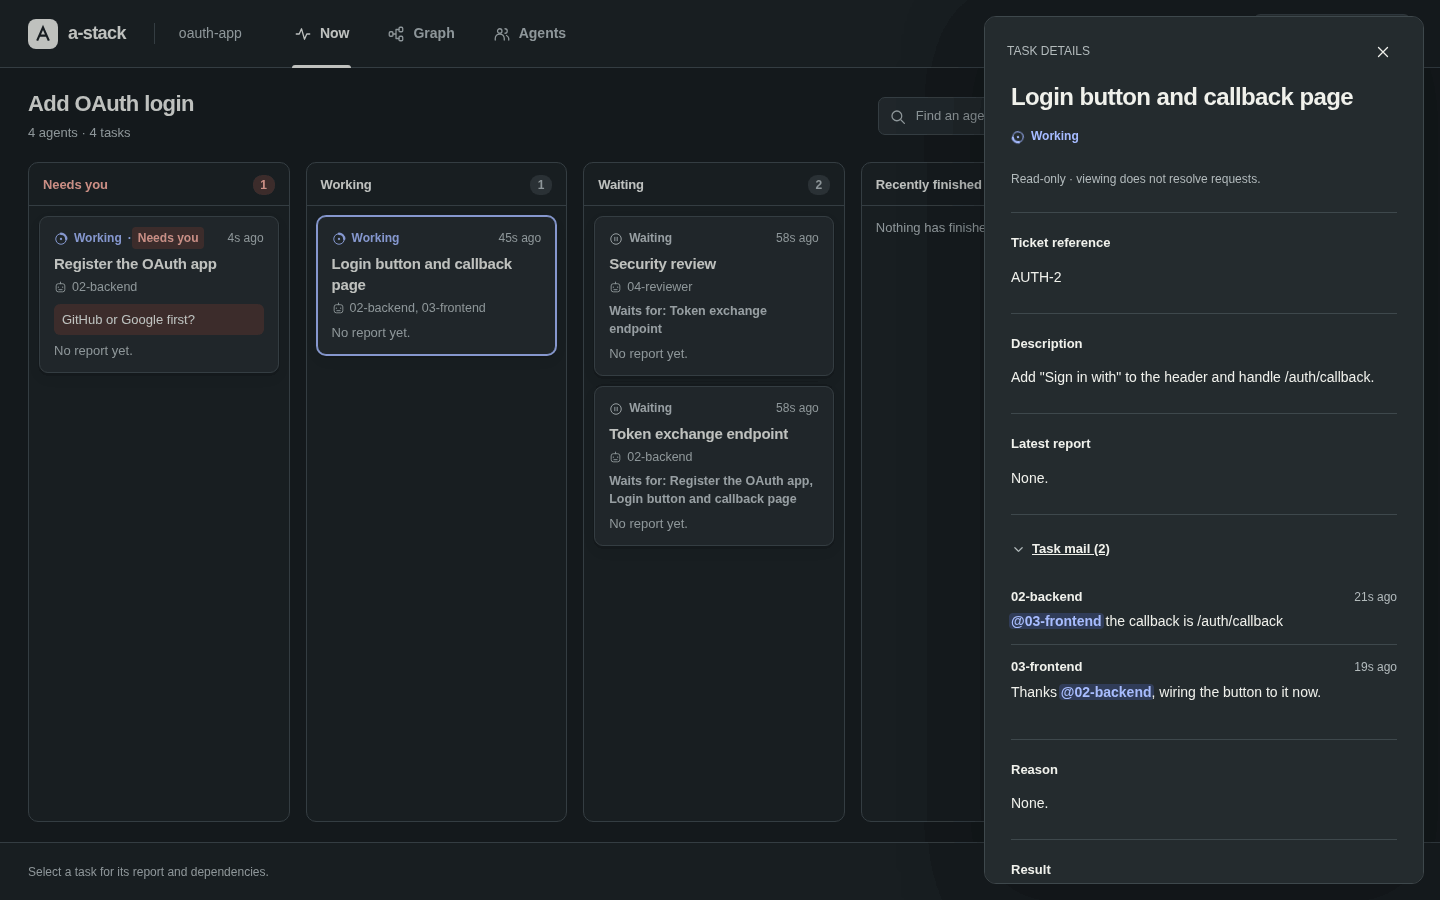
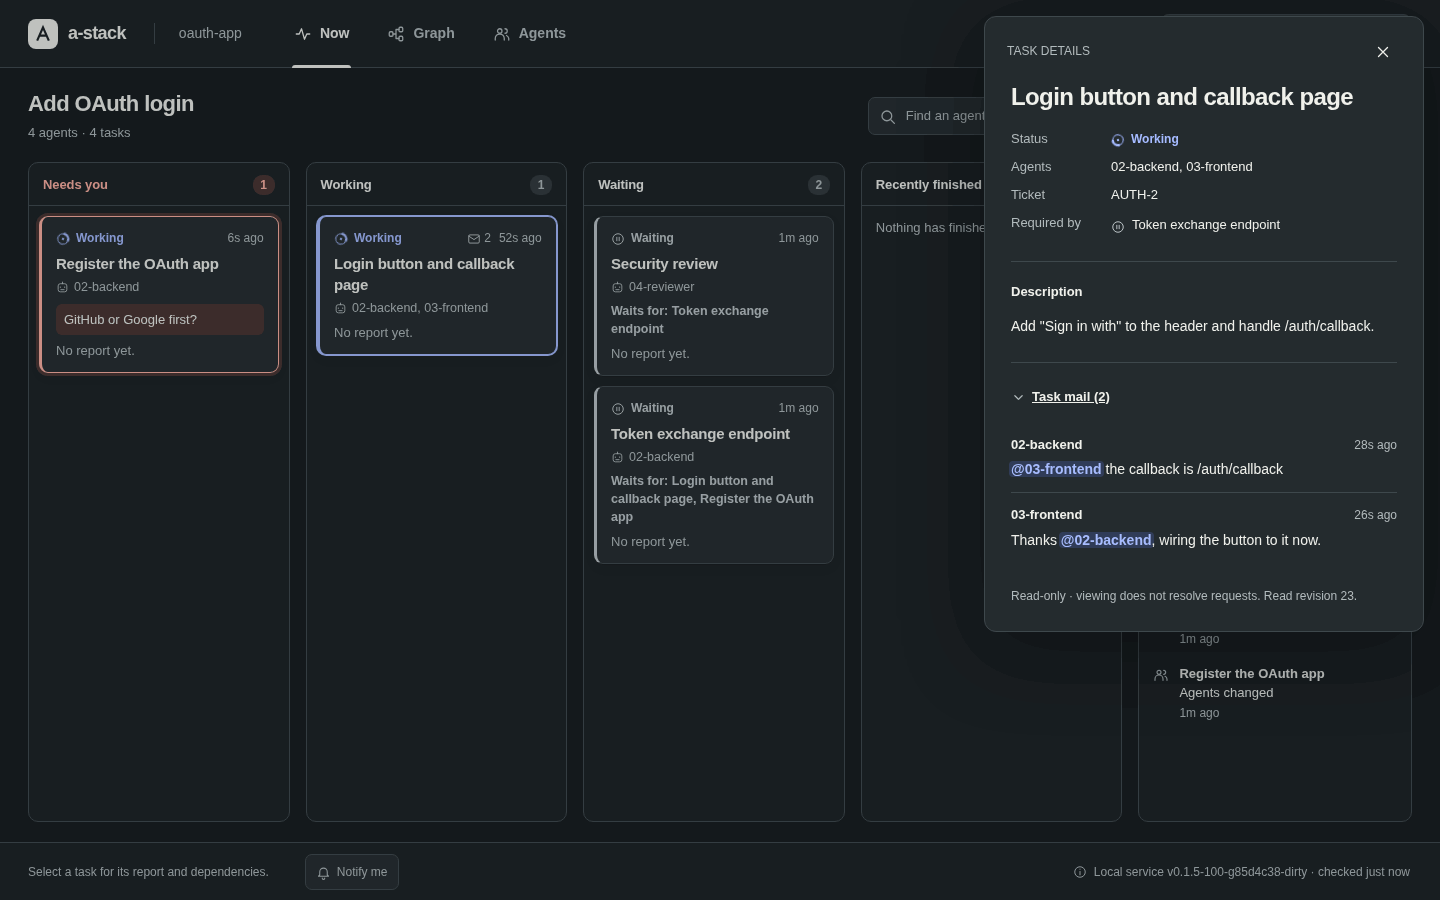
Refresh demos and screenshots for the current browser view

diff --git a/scripts/demo-overlay.js b/scripts/demo-overlay.js
@@ -138,12 +138,14 @@
         if (side === 'below' || side === 'above') {
           bx = Math.min(Math.max(r.left + r.width / 2 - b.width / 2 + 60, 12), w - b.width - 12);
           by = side === 'below' ? r.bottom + gap : r.top - gap - b.height;
+          by = Math.min(Math.max(by, 12), h - b.height - 12);
           ax = bx + Math.min(40, b.width / 4);
           ay = side === 'below' ? by : by + b.height;
           tx = Math.min(Math.max(ax + 30, r.left + 20), r.right - 20);
           ty = side === 'below' ? r.bottom + pad + 8 : r.top - pad - 8;
         } else {
           bx = side === 'right' ? r.right + gap : r.left - gap - b.width;
+          bx = Math.min(Math.max(bx, 12), w - b.width - 12);
           by = Math.min(Math.max(r.top + r.height / 2 - b.height / 2 + 40, 12), h - b.height - 12);
           ax = side === 'right' ? bx : bx + b.width;
           ay = by + b.height / 2;

diff --git a/README.md b/README.md
@@ -15,7 +15,7 @@ Reports, Task mail and answered questions stay when an Agent compacts, crashes o
 
 Works with Claude Code, Codex and Pi (with hooks), [Herdr](https://herdr.dev) (optional, not on Windows) and any agent with a shell, such as OpenCode, Copilot CLI, Cursor CLI or Gemini CLI. Runs on Linux, macOS and Windows.
 
-![Demo in seven captioned steps, with a terminal above the browser view and an arrow on each change. 1, a-stack new creates a Session for an OAuth login and opens the Now tab. 2, the Orchestrator adds four Tasks, which wait in the Waiting column. 3, the Agents 02-backend and 03-frontend start work, and their Tasks move to Working. 4, 02-backend sends Task mail to @03-frontend, 03-frontend replies, and the Task details show both messages with the mention highlighted. 5, 02-backend asks "GitHub or Google first?", the Task moves to Needs you and the button says 1 needs you. 6, after the answer the Task is Working again. 7, a-stack -r picks another Session, which also has a question for you.](docs/images/demo.gif)
+![Demo in eight captioned steps, with a terminal above the browser view and an arrow on each change. 1, a-stack new creates a Session for an OAuth login and opens the Now tab. 2, the Orchestrator adds four Tasks, which wait in the Waiting column. 3, the Agents 02-backend and 03-frontend start work, and their Tasks move to Working. 4, 02-backend sends Task mail to @03-frontend, 03-frontend replies, and the Task details show both messages with the mention highlighted. 5, 02-backend asks "GitHub or Google first?", the Task moves to Needs you and the button says Needs you (1). 6, after the answer the Task is Working again. 7, a real Stop hook asks the Agent to report its work, then a mail nudge prompts it to read new Task mail. 8, a-stack -r picks another Session, which also has a question for you.](docs/images/demo.gif)
 
 ## How it works
 
@@ -45,16 +45,16 @@ The view has three tabs:
 
 <picture>
   <source media="(prefers-color-scheme: dark)" srcset="docs/images/graph-dark.png">
-  <img src="docs/images/graph-light.png" alt="The Graph tab of the browser view: four Tasks for an OAuth login. Curved lines lead from the two Working Tasks to a Token exchange Task and from there to a Security review. One Working Task has a Needs you question, and the button at the top right says 1 needs you.">
+  <img src="docs/images/graph-light.png" alt="The Graph tab of the browser view: four Tasks for an OAuth login. Curved lines lead from the two Working Tasks to a Token exchange Task and from there to a Security review. One Working Task has a Needs you question, and the button at the top right says Needs you (1).">
 </picture>
 
-![The Agents tab of the browser view: 01-orchestrator with no Tasks, 02-backend with three Tasks, one of them with a Needs you question and one shared with 03-frontend, then 03-frontend and 04-reviewer with one Task each.](docs/images/agents.png)
+![The Agents tab shows a card for each Agent, most urgent first. 02-backend has a Needs you question, six Waiting Tasks with two folded away, and finished Tasks behind a separate fold. A summary and task-count chips show the team’s workload.](docs/images/agents.png)
 
 Select a Task to see its report, its dependencies and its Task mail. The view reads the mail but cannot send it or change anything.
 
 <picture>
   <source media="(prefers-color-scheme: dark)" srcset="docs/images/mail-dark.png">
-  <img src="docs/images/mail-light.png" alt="The details of the Task Login button and callback page, open beside the Now tab. Task mail (2) is open: 02-backend wrote @03-frontend the callback is /auth/callback, and 03-frontend answered Thanks @02-backend, wiring the button to it now. Both mentions are highlighted.">
+  <img src="docs/images/mail-light.png" alt="The details of the Task Login button and callback page, open beside the Now tab. The details begin with Status, Agents, Ticket and dependencies. Task mail (2) is open at the end: 02-backend wrote @03-frontend the callback is /auth/callback, and 03-frontend answered Thanks @02-backend, wiring the button to it now. Both mentions are highlighted.">
 </picture>
 
 Short clips in the [browser view guide](docs/browser.md#what-the-view-shows) show the graph, the archive and the Agents tab.

diff --git a/docs/browser.md b/docs/browser.md
@@ -123,7 +123,9 @@ A poll moves cards between columns in place. The selection, the focused card and
 - A minimap at the bottom right of the graph, 200×130 pixels (140×91 on a phone), shows every card as a block in its status color, with a ring around Needs you, and a box around the part you see. Click or drag on it to move the view there. It is hidden while the whole graph fits the panel. The Minimap button in the footer of the Graph tab, or `m` in the graph, turns it off or on. The button shows which, also while the graph fits, and the view remembers it in local storage. The minimap is for the pointer only: screen readers skip it, and it never takes the focus.
 - The layout runs again when Tasks or dependencies change, when the Archived toggle changes, or when a card changes size: a new title, a Task that becomes finished or cancelled or opens again, other assigned Agents, Needs you, file references, cancelled prerequisites or hidden archived prerequisites. It uses the panel size at that moment. Resizing the window alone does not move cards, and neither does a poll without changes, a new report or a change between Waiting and Working.
 
-![A short clip of the Graph tab. Curved lines lead from two Working Tasks to a Token exchange Task and on to a Security review. A click on one Task lights up its lines and fades the Tasks it does not connect to.](images/demo-graph.gif)
+![A short clip of the Graph tab. Curved lines connect prerequisites, and selecting a Task highlights its lines. A larger graph shows dragging the minimap, title blocks below 50% zoom, and colored blocks with a Needs you ring below 30%.](images/demo-graph.gif)
+
+![A larger graph at 40% zoom. Cards become blocks with titles and status colors; the minimap shows the full graph and the visible region.](images/graph-overview.png)
 
 ![A short clip of finished work in the Graph tab. A finished Task shrinks to one line. When the Task after it finishes too, the finished Tasks fold into Archived (2), and the toggle shows them again, dimmed.](images/demo-archive.gif)
 
@@ -139,7 +141,7 @@ The Agents tab shows one card per Agent, in a grid of columns at least 400px wid
 - A poll updates the cards and rows in place, so the focus and the scroll position stay.
 - A Session with no Agents says "No Agents yet".
 
-![A short clip of the Agents tab: 01-orchestrator with no Tasks, then 02-backend with its three finished Tasks, then 03-frontend and 04-reviewer.](images/demo-agents.gif)
+![A short clip of the Agents tab: a summary and status chips, 02-backend’s waiting and finished Task folds opening and closing, and switching between Most urgent first and By name.](images/demo-agents.gif)
 
 ### Task details
 

diff --git a/CONTRIBUTING.md b/CONTRIBUTING.md
@@ -55,4 +55,4 @@ After a change to the browser view or the Operator commands, record the README d
 scripts/record-demo.sh
 ```
 
-The script builds a-stack and runs a short Session on a temporary service, with a temporary HOME. It records one story: a real terminal (`scripts/demo-terminal.py`) and the browser view (agent-browser) at the same time. `scripts/demo-overlay.js` draws the outlines and callouts and zooms in, in the recording browser only. Then it cuts the scenes into GIFs, each scene under its caption. The scene list at the top of the script names the GIF, the tab, the terminal and the caption of each scene. To try a change without touching the images, set `DEMO_OUT` to another folder. In `docs/images` it writes `demo.gif` (the README tour), `demo-graph.gif`, `demo-archive.gif` and `demo-agents.gif` (the clips in the browser view guide), the stills `graph-light.png`, `graph-dark.png`, `now-light.png`, `now-dark.png`, `mail-light.png`, `mail-dark.png` and `agents.png`, and `picker.png`. It deletes the temporary state when it ends. It needs Go, Python 3, ffmpeg, agent-browser, ImageMagick (`magick`) and curl. It downloads a pinned release of [agg](https://github.com/asciinema/agg) into `.tmp/` and checks its SHA-256. It does not need Docker.
+The script builds a-stack and runs a short Session on a temporary service, with a temporary HOME, explicit disposable state and private hook settings/cache. It records one story: a real terminal (`scripts/demo-terminal.py`) and the browser view (agent-browser) at the same time. Terminal helpers shorten mutation receipts and show only the first line of a Stop guard’s reason; the hook events, replies and Task changes are real. `scripts/demo-overlay.js` draws the outlines and callouts and zooms in, in the recording browser only. Then it cuts the scenes into GIFs, each scene under its caption. The scene list at the top of the script names the GIF, the tab, the terminal and the caption of each scene. To try a change without touching the images, set `DEMO_OUT` to another folder. In `docs/images` it writes `demo.gif` (the README tour), `demo-graph.gif`, `demo-archive.gif` and `demo-agents.gif` (the clips in the browser view guide), the stills `graph-light.png`, `graph-dark.png`, `graph-overview.png` (minimap and semantic zoom), `now-light.png`, `now-dark.png`, `mail-light.png`, `mail-dark.png` and `agents.png`, and `picker.png`. It deletes the temporary state when it ends. It needs Go, Python 3, ffmpeg, agent-browser, ImageMagick (`magick`) and curl. It downloads a pinned release of [agg](https://github.com/asciinema/agg) into `.tmp/` and checks its SHA-256. It does not need Docker.
